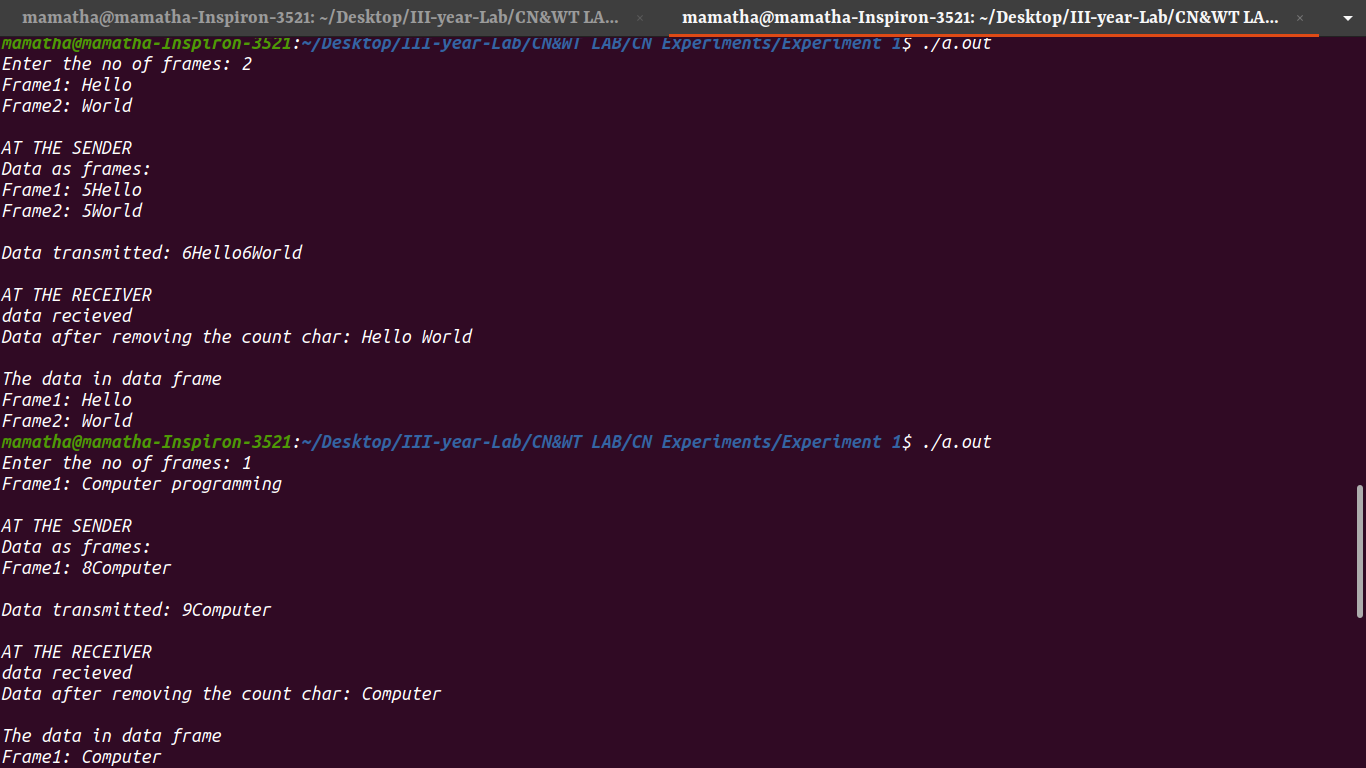
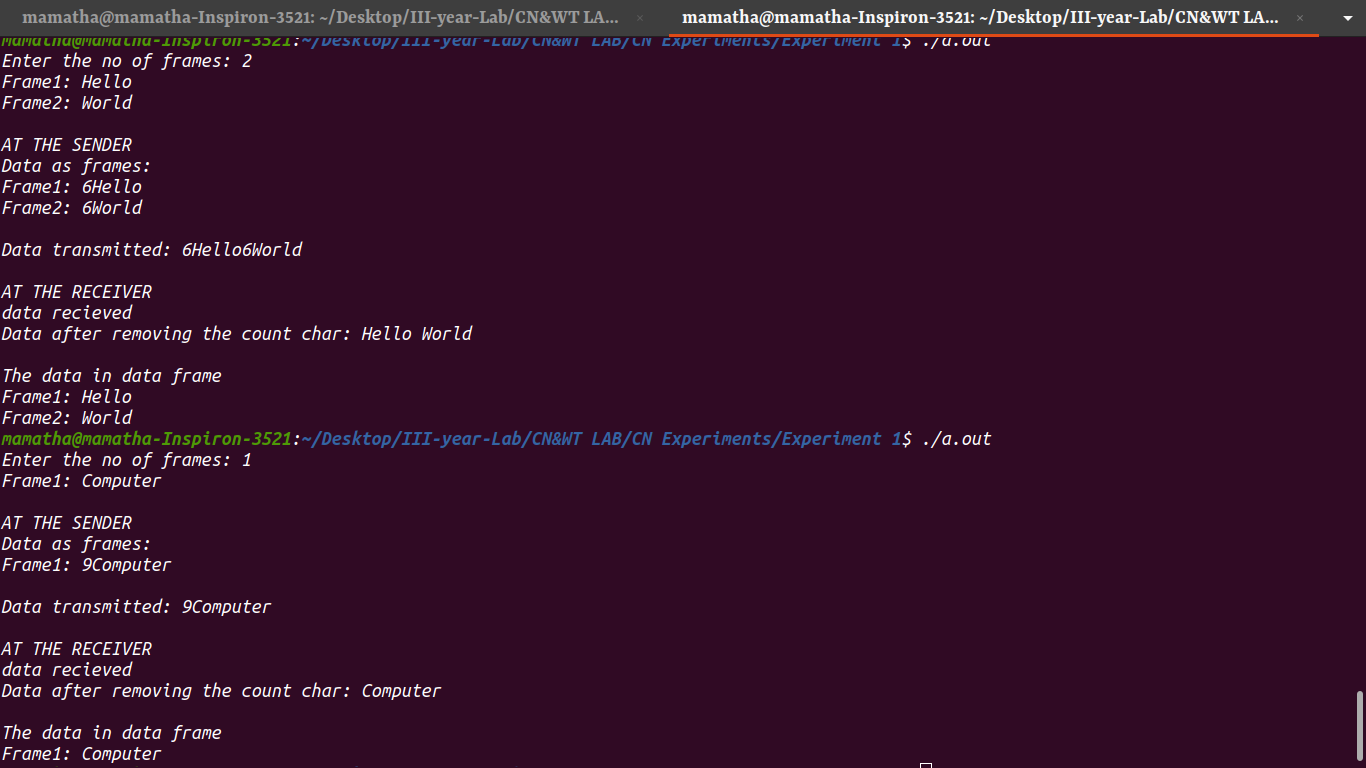
file updated

diff --git a/CN&WT LAB/CN Experiments/Experiment 1/characterCount.c b/CN&WT LAB/CN Experiments/Experiment 1/characterCount.c
@@ -16,7 +16,7 @@ int main() {
         printf("%d: ", i + 1);
         scanf("%s", data[i]);
 
-        frameLengths[i] = strlen(data[i]);
+        frameLengths[i] = strlen(data[i]) + 1;
       
     }
 
@@ -37,7 +37,7 @@ int main() {
     for(int i = 0; i < dataFrameCount; i++){
         
         
-        printf("%d", frameLengths[i] + 1);
+        printf("%d", frameLengths[i]);
         printf("%s", data[i]);
 
     }
